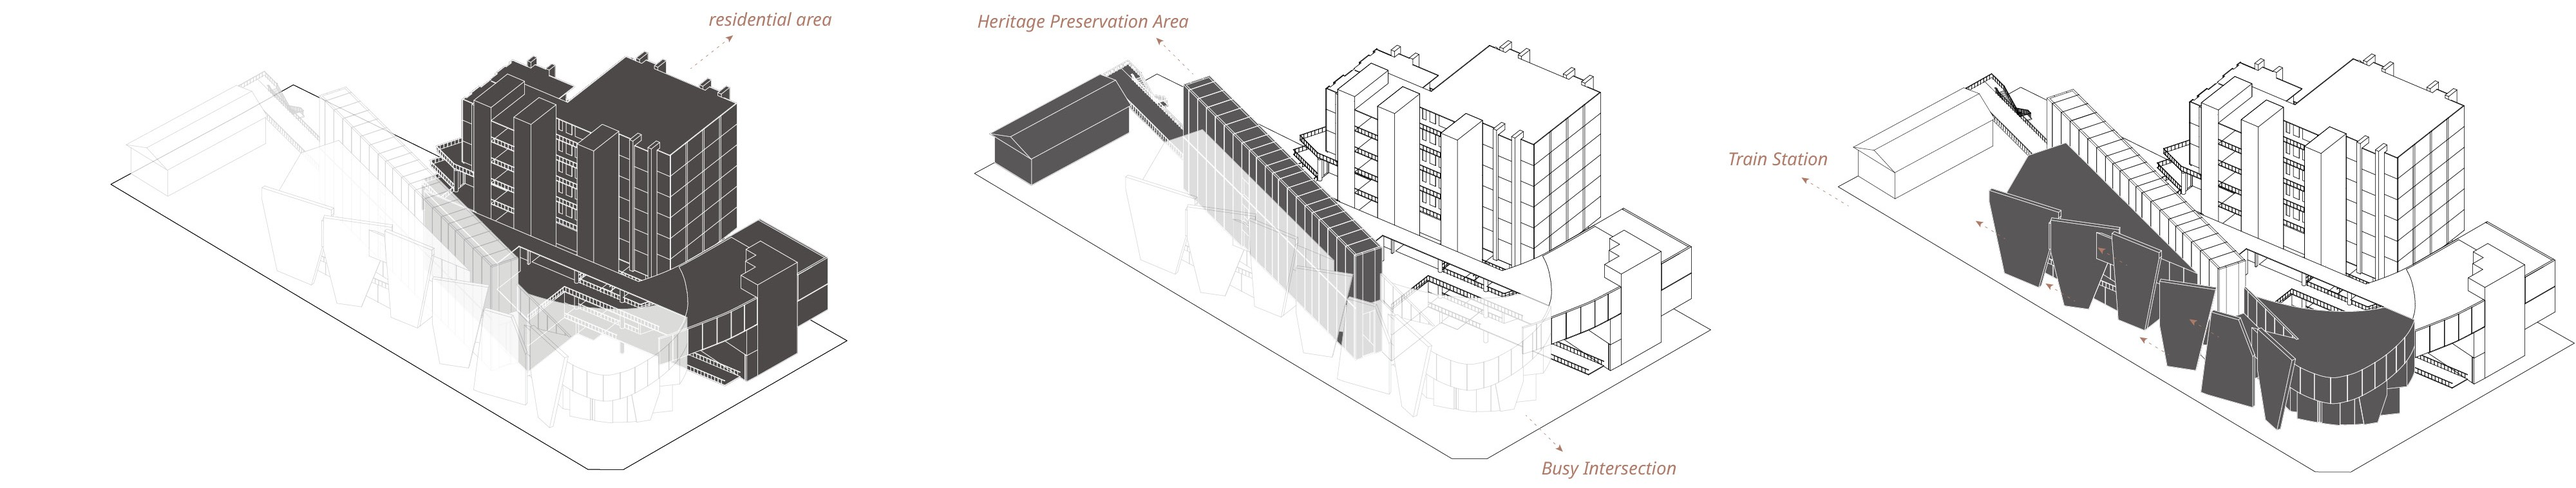
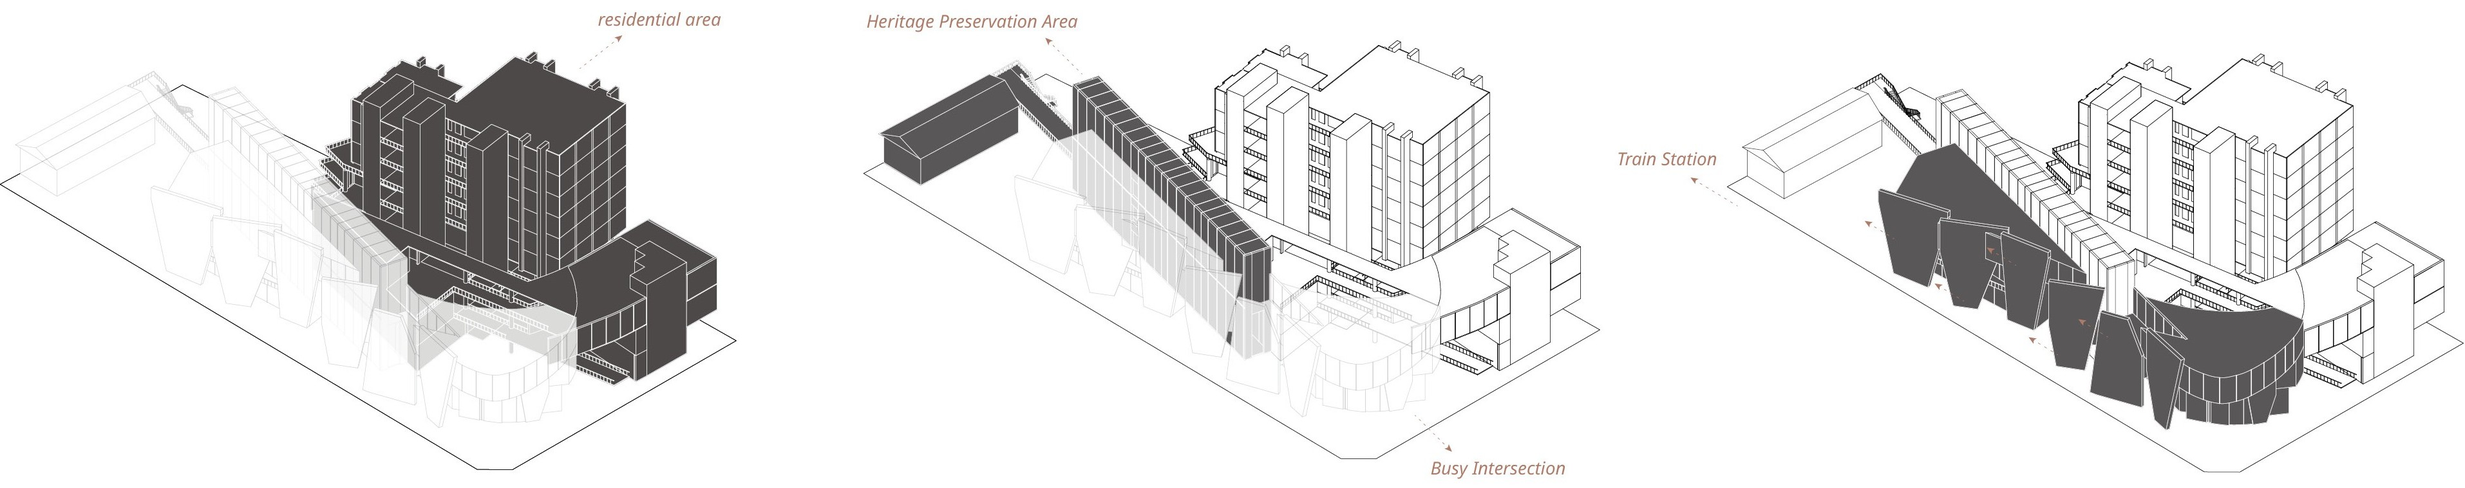
add

diff --git a/layer/index.html b/layer/index.html
@@ -1052,6 +1052,18 @@
         </div>
 
         <div class="project-section">
+          <h4 class="section-title">
+            From the inside out: three different layers
+          </h4>
+          <p class="section-content">
+            The overall massing design moves from the inside out: a rectangular volume for the accommodation space, a linear shopping street, and a streamlined public space.
+          </p>
+        </div>
+
+        <div class="image-section">
+          <img src="../images/LAYER/02.jpg" alt="Co-living Landscape" />
+        </div>
+        <div class="project-section">
           <h4 class="section-title">Interface: Unique forms that attract people</h4>
           <p class="section-content">
             A distinctive wall design faces the intersection and the pathway leading to the train station, with openings oriented toward the flow of people, naturally drawing them into the shopping street within the site.
@@ -1059,7 +1071,8 @@
         </div>
 
         <div class="image-section">
-          <img src="../images/HIVE/01.jpg" alt="Co-living Landscape" />
+          <img src="../images/LAYER/03.jpg" alt="Co-living Landscape" />
+          <img src="../images/LAYER/04.jpg" alt="Co-living Landscape" />
         </div>
 
         <div class="project-section">
